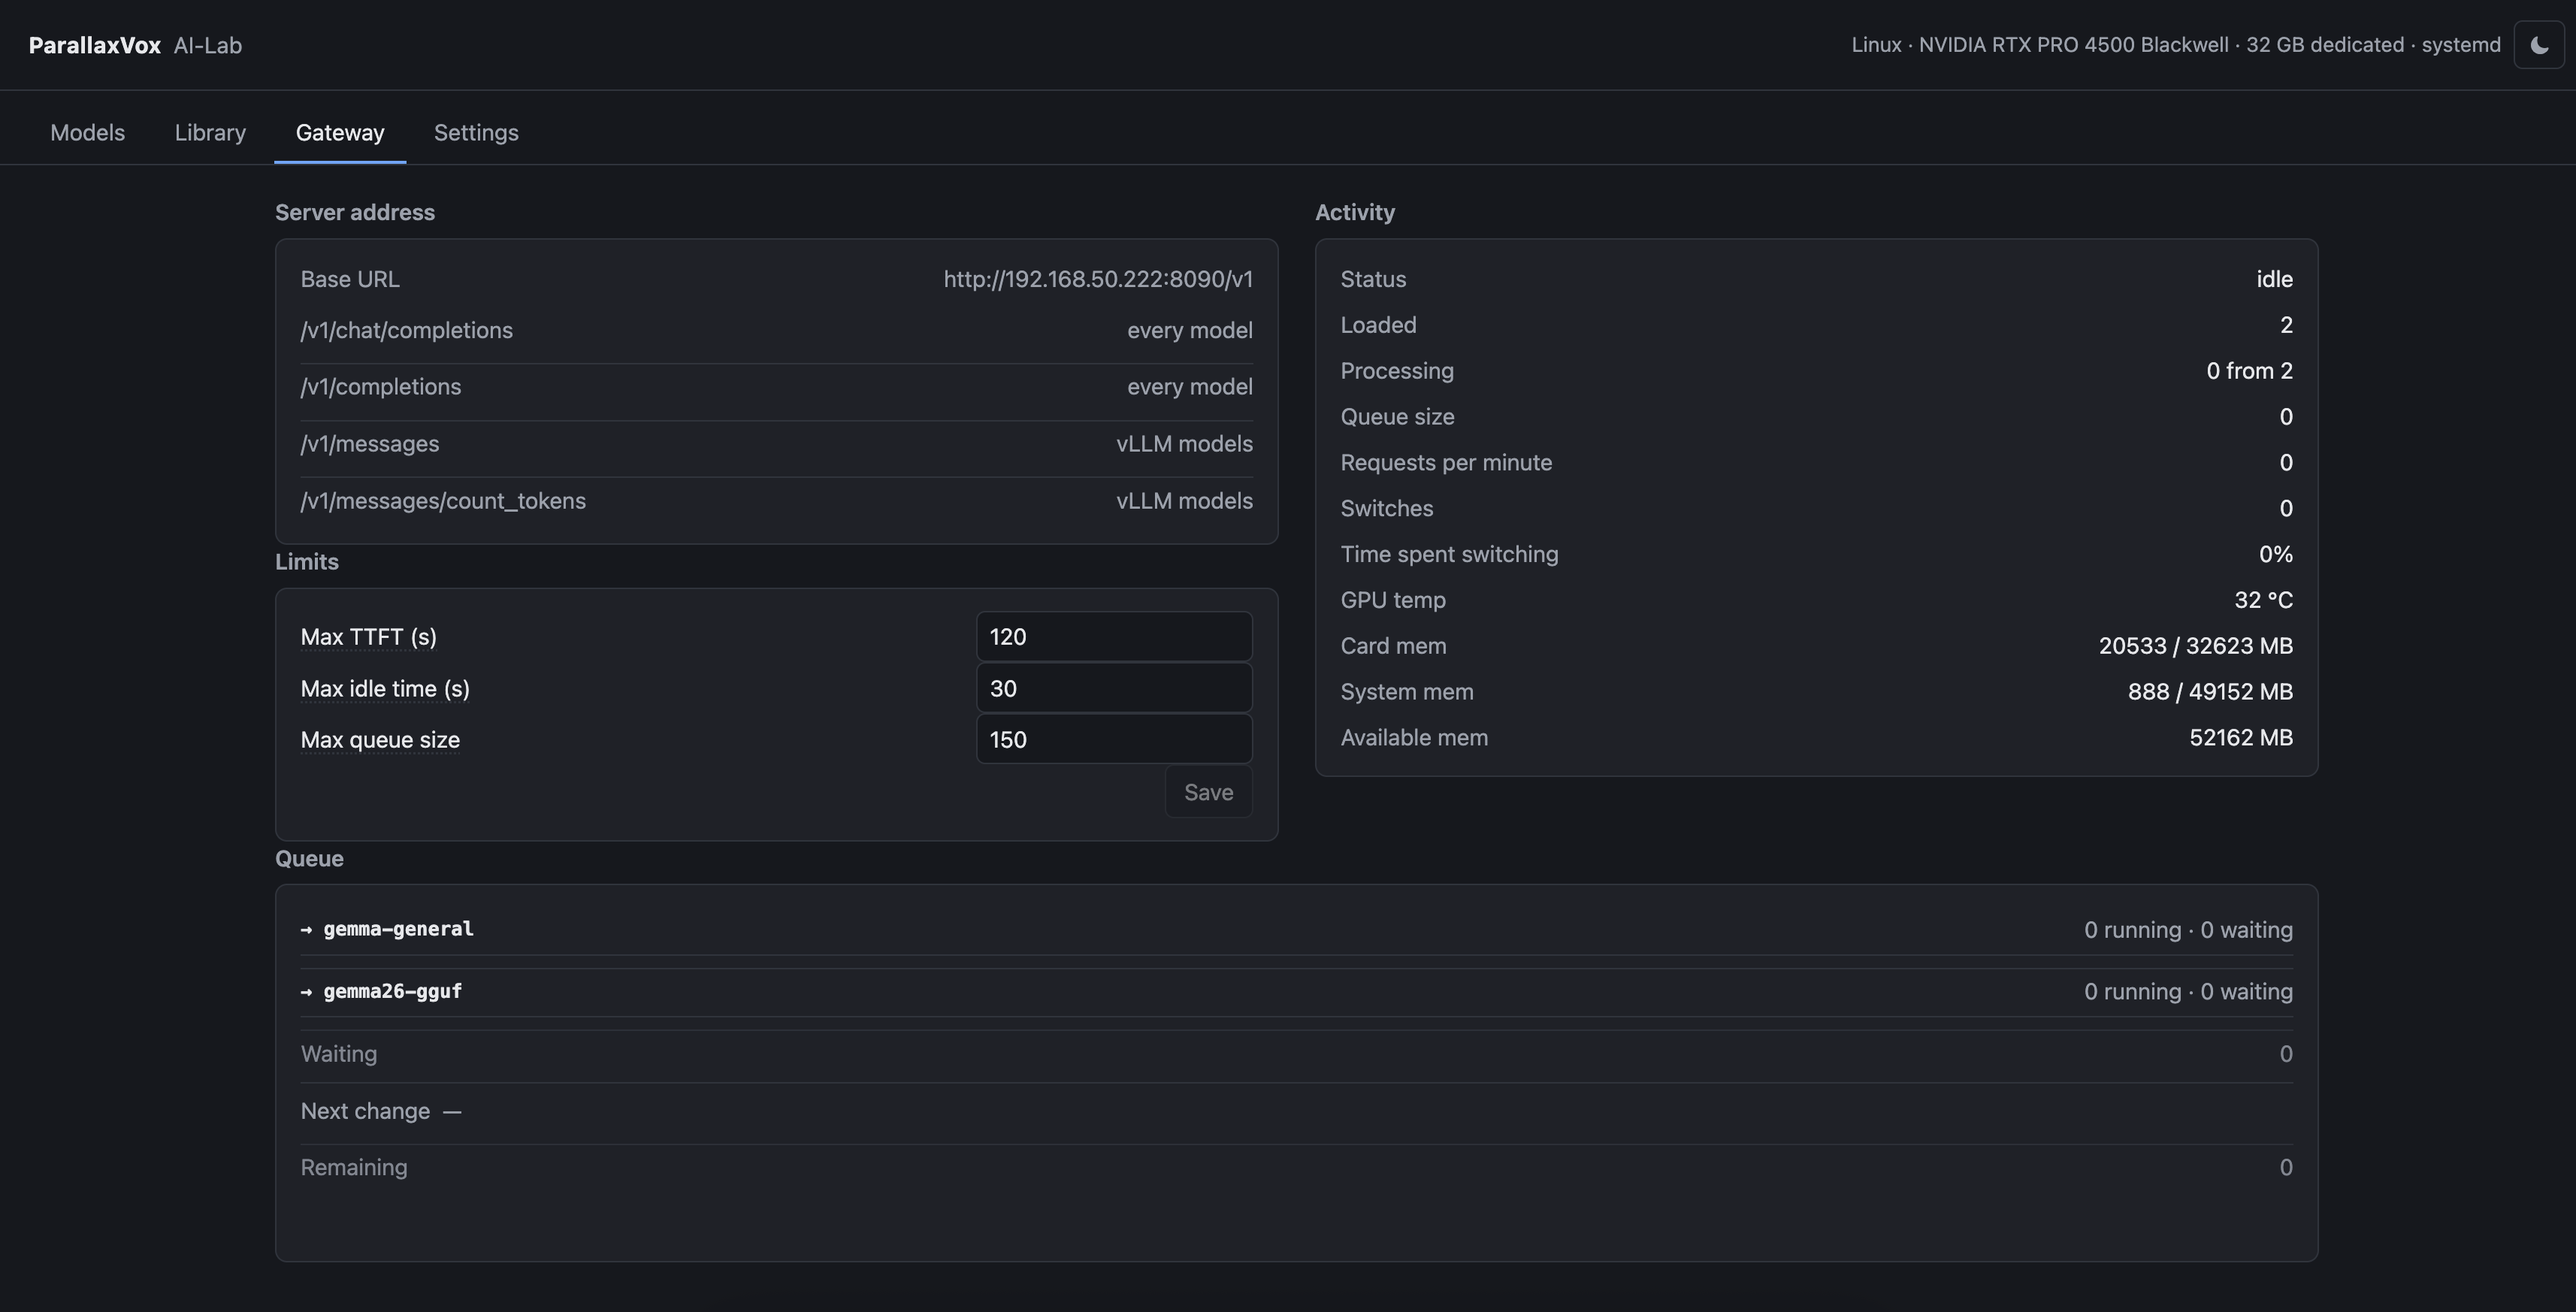
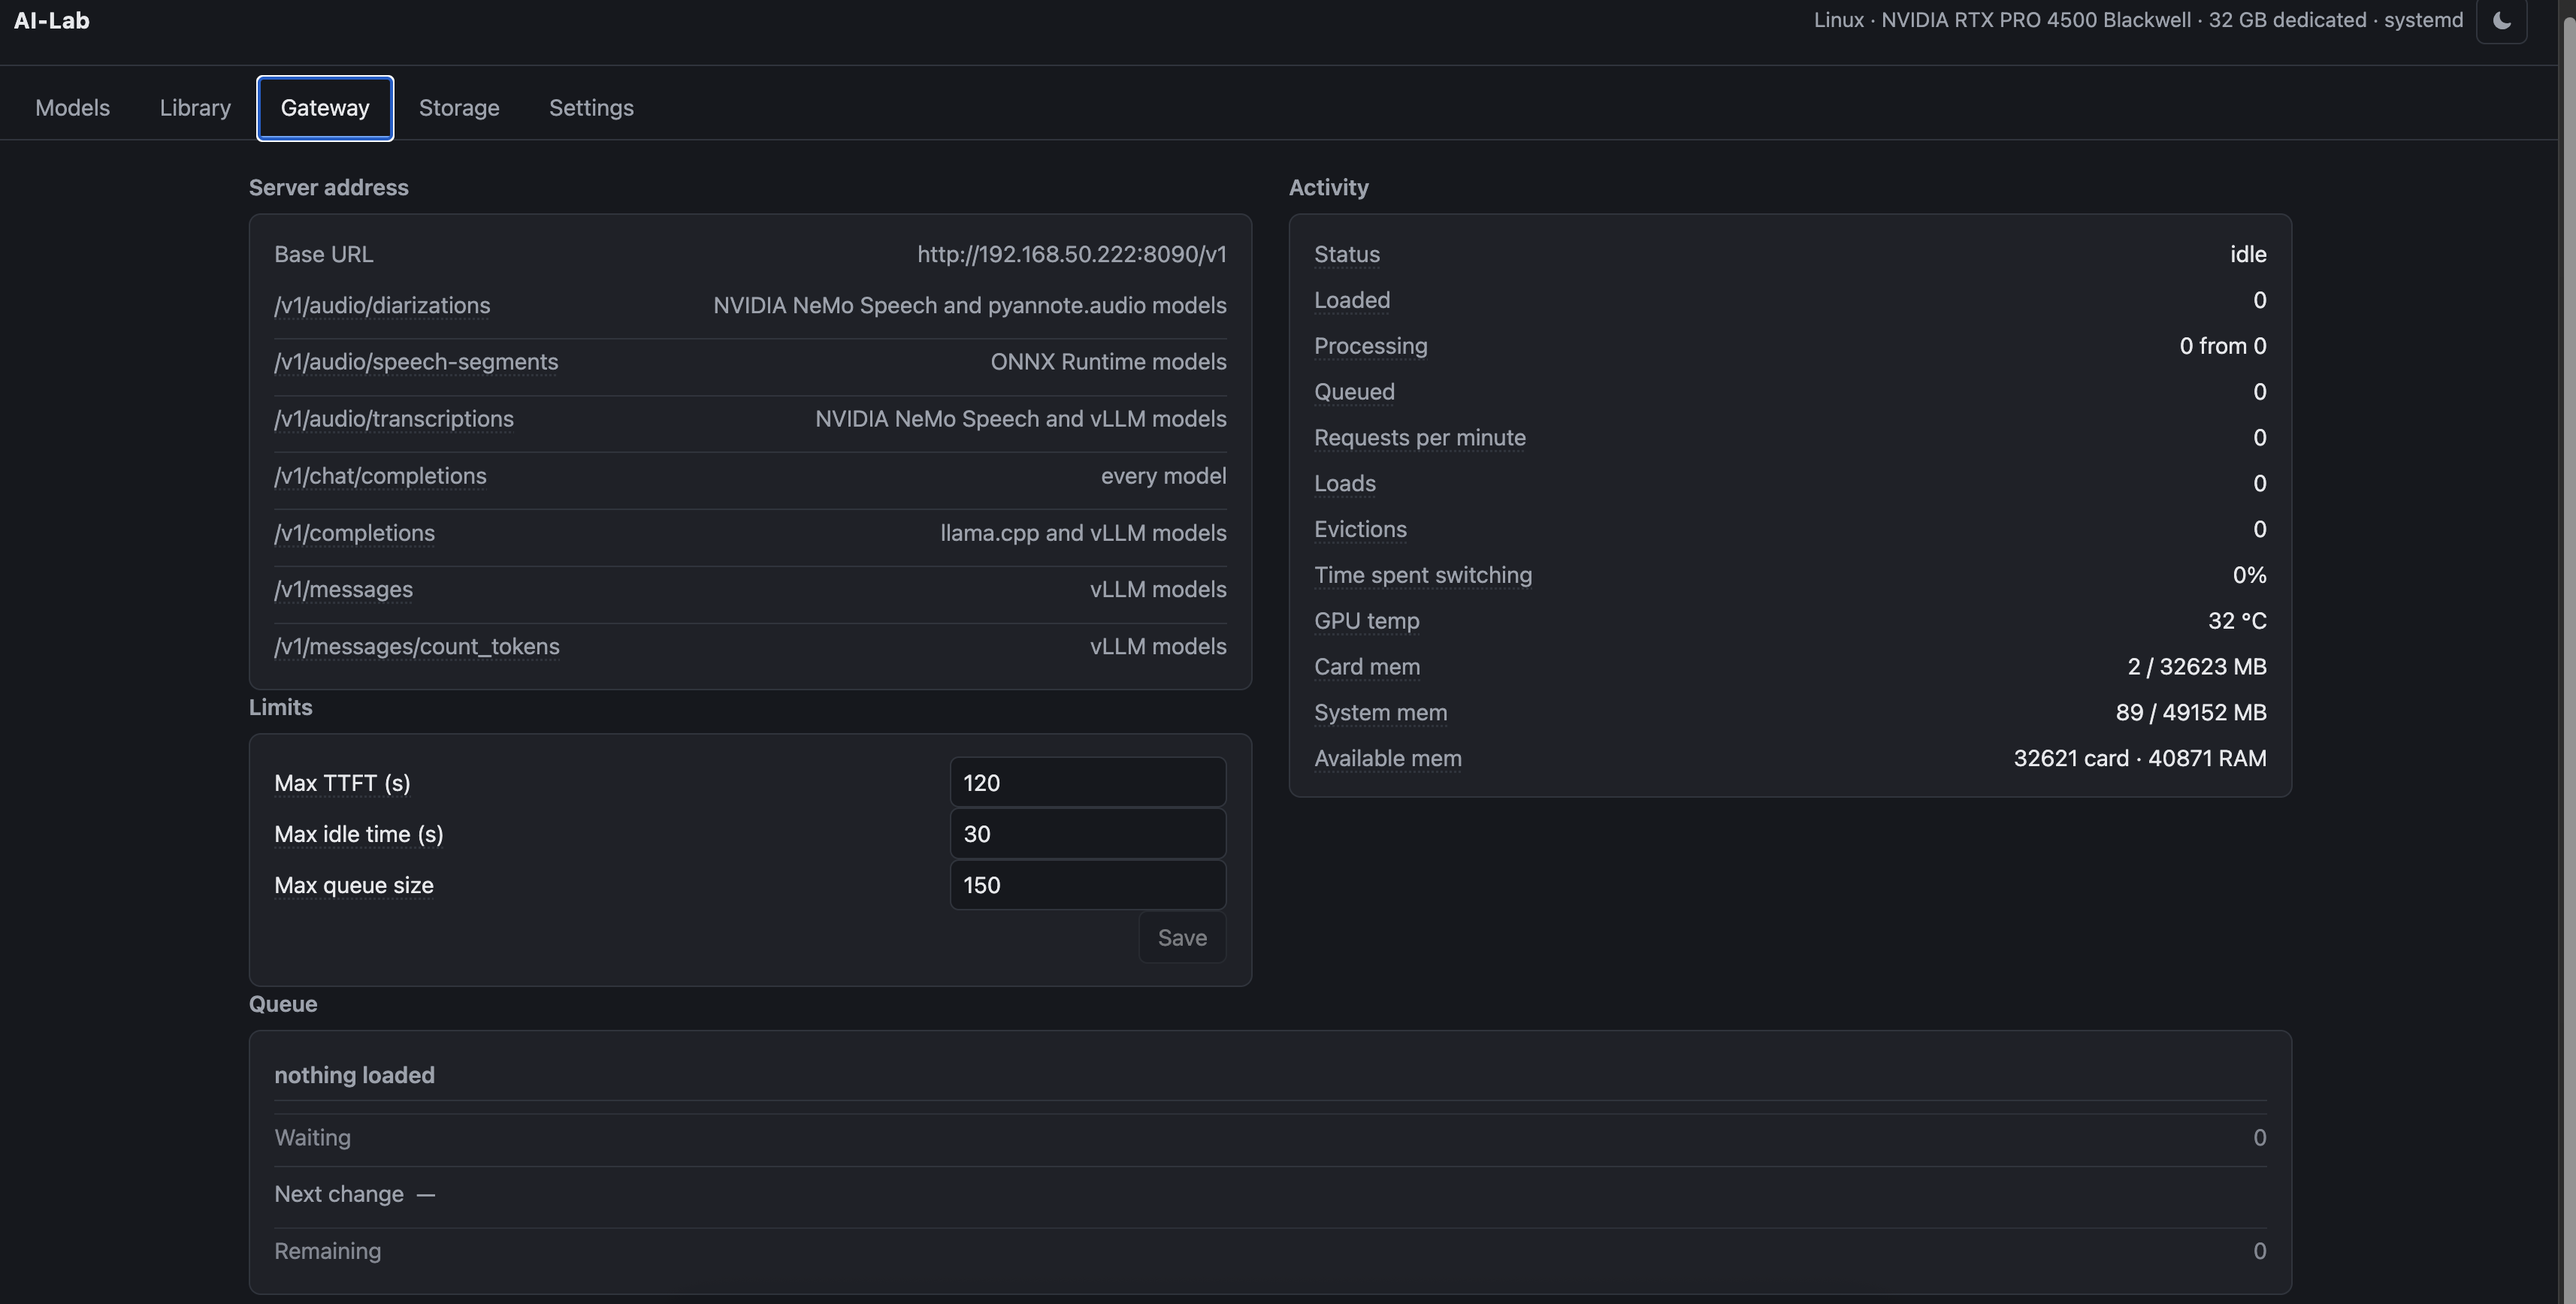
Update Gateway documentation and screenshot

diff --git a/docs/gateway.md b/docs/gateway.md
@@ -1,13 +1,14 @@
-# The Gateway — one address, and models that come and go
+# The Gateway — one address for every model
 
 The part an agent talks to, and the part nobody can guess: which model is
 loaded, which comes off to make room, and when. If you read one document
 here, read this one.
 
 Each configured model is a separate engine on its own port. Pointed straight at
-those, an agent naming a model that happens not to be running gets a refused
-connection. The Gateway is one address in front of all of them, speaking the
-OpenAI shape that agent tools already send:
+those, a client naming a model that happens not to be running gets a refused
+connection. The Gateway is one address in front of all of them. It exposes the
+OpenAI text and audio shapes supported by the configured engines, plus the
+Anthropic Messages shape where the engine supports it:
 
 ```sh
 curl http://ai-lab.lan:8090/v1/chat/completions \
@@ -19,10 +20,16 @@ Name any configured model. No API key is checked; any value will do.
 `GET /v1/models` lists every configured entry, loaded or not, which is the
 point: a client is meant to be able to ask for one of them.
 
+The **Server address** block is the contract of this particular installation.
+It lists the endpoints available now and which configured models can answer
+each one. That includes chat and completion requests, Anthropic messages and
+token counting, transcription, voice-activity detection and speaker
+diarization. An endpoint absent from this block is not served here.
+
 ![The gateway](screenshots/gateway.png)
 
-The page is what is happening now, and every figure on it says what it means
-when you hover it.
+The rest of the page is what is happening now, and every figure on it says what
+it means when you hover it.
 
 **Loaded** is how many models are on the machine; the queue below names them.
 **Processing** is requests in flight against the places every loaded model

diff --git a/README.md b/README.md
@@ -62,7 +62,7 @@ before it says how it works.
 |---|---|
 | [Writing a request](docs/requests.md) | Chat and multipart audio requests, the `ai_lab` field for startup settings, and what a refusal contains so a client can correct itself. |
 | [Updating an engine](docs/engines.md) | Reading what an update brings before taking it, and installing beside what already works so there is a way back. |
-| [Audio](docs/audio.md) | Speech-to-text, VAD and speaker diarization, their endpoints and the boundary between AI-Lab and data-processing clients. |
+| [Audio](docs/audio.md) | Speech-to-text, VAD and speaker diarization, their endpoints and the input requirements specific to AI-Lab. |
 
 **Working on it**
 

diff --git a/docs/requests.md b/docs/requests.md
@@ -47,10 +47,9 @@ curl http://ai-lab.lan:8090/v1/audio/speech-segments \
   -F model=silero-vad -F file=@recording.wav
 ```
 
-It returns time intervals in seconds. The current Silero adapter requires mono
-or stereo audio already normalised to 16 kHz; converting, segmenting large
-source files and storing the results belong to the data-processing client. See
-[Audio](audio.md).
+It returns time intervals in seconds. The current Silero adapter requires
+16 kHz input and converts stereo to mono internally; other sample rates are
+refused. See [Audio](audio.md).
 
 Speaker diarization uses the same multipart shape:
 
